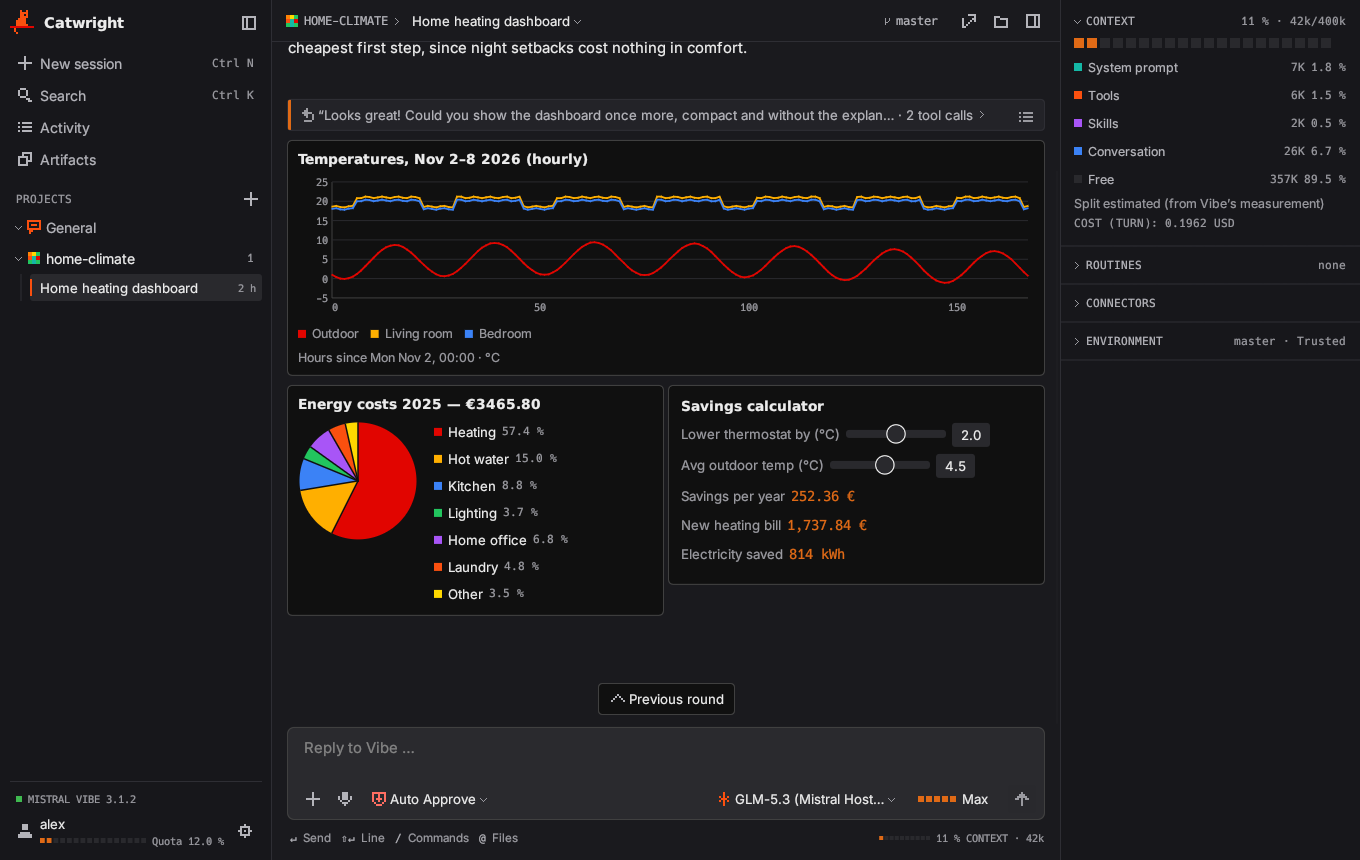
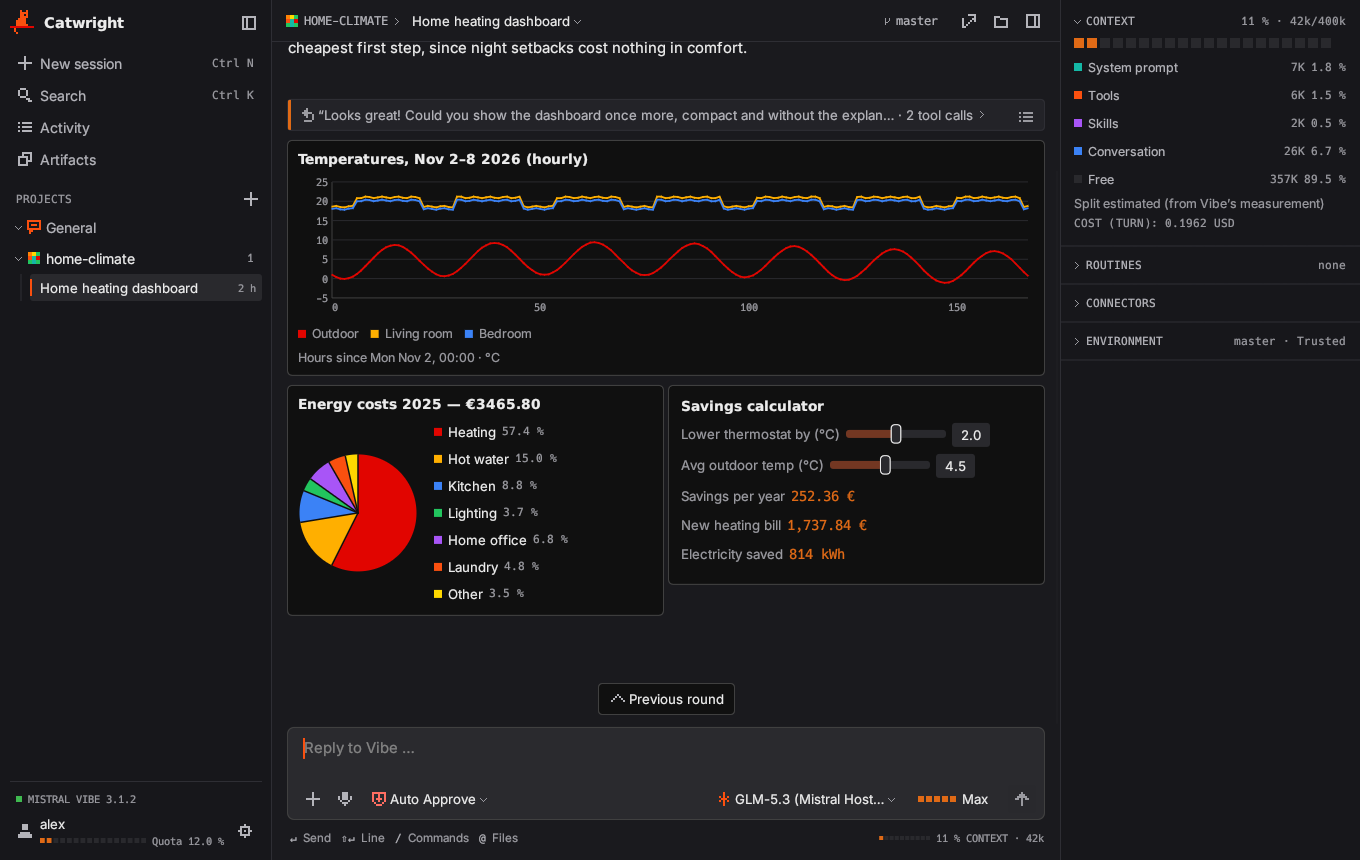
Generative UI: aligned bar charts, centred pie, pixel sliders
- Bar chart: labels in one column so every bar starts at the same x (each
  bar began right after its label), values through tick_label (no float
  noise) in their own column, bars in ORANGE_DIM, never wider than the
  card. A too wide bar chart had widened the following columns, too.
- Pie: painted after the legend and centred on a taller legend.
- Button: keeps its own width inside columns (egui lays them out
  justified, which stretched it into a banner).
- Sliders: narrow square handle with trailing fill (theme).
- ui_node_gallery_renders paints every node type and saves ui-gallery.png
  with CATWRIGHT_SHOT_DIR.

Claude-Session: https://claude.ai/code/session_01PuTwbbvQp52dyYtcHPreif

Changed region(s): [[0.2162, 0.4837, 0.3088, 0.6651], [0.6176, 0.4837, 0.6794, 0.5442]]

diff --git a/app/src/render.rs b/app/src/render.rs
@@ -1718,14 +1718,19 @@ pub fn render_ui_node(
                 label.clone()
             };
             let fill = if armed { crate::theme::AMBER } else { ACCENT };
-            if ui
-                .add(
-                    egui::Button::new(RichText::new(text).color(crate::theme::ON_ACCENT))
-                        .fill(fill)
-                        .rounding(egui::Rounding::same(3.0)),
-                )
-                .clicked()
-            {
+            // its own width, also inside columns (egui lays those out
+            // justified, which stretched the button into a banner)
+            let clicked = ui
+                .horizontal(|ui| {
+                    ui.add(
+                        egui::Button::new(RichText::new(text).color(crate::theme::ON_ACCENT))
+                            .fill(fill)
+                            .rounding(egui::Rounding::same(3.0)),
+                    )
+                    .clicked()
+                })
+                .inner;
+            if clicked {
                 if armed {
                     disarm_button(id);
                     ctx.ui_events.push(UiEvent::Button {
@@ -1862,31 +1867,67 @@ pub fn render_ui_node(
                         .map(|b| b.value)
                         .fold(0.0_f64, f64::max)
                         .max(1.0);
-                    let bar_area_w = (ui.available_width() - 140.0).max(40.0);
-                    for b in bars {
-                        ui.horizontal(|ui| {
-                            ui.set_min_width(120.0);
-                            ui.label(RichText::new(&b.label).color(TEXT).size(13.0));
-                            let frac = (b.value / max) as f32;
-                            let h = 14.0;
-                            let rect = egui::Rect::from_min_size(
-                                ui.cursor().min + egui::vec2(0.0, 2.0),
-                                egui::vec2(bar_area_w, h),
-                            );
-                            ui.allocate_rect(rect, egui::Sense::hover());
-                            ui.painter().rect_filled(
-                                rect,
-                                egui::Rounding::same(0.0),
-                                crate::theme::RAISED,
-                            );
-                            let fill = egui::Rect::from_min_size(
-                                rect.min,
-                                egui::vec2((bar_area_w * frac).max(2.0), h),
-                            );
-                            ui.painter()
-                                .rect_filled(fill, egui::Rounding::same(0.0), ACCENT);
-                            ui.label(RichText::new(format!("{}", b.value)).color(DIM).small());
-                        });
+                    // one column for the labels, so every bar starts at the
+                    // same x and the lengths compare; one for the values;
+                    // the bars share what is left and never widen the card
+                    let width = ui.available_width();
+                    let measure = |ui: &egui::Ui, text: &str, font: egui::FontId| {
+                        ui.fonts(|f| f.layout_no_wrap(text.to_string(), font, TEXT))
+                            .size()
+                            .x
+                    };
+                    let values: Vec<String> = bars
+                        .iter()
+                        .map(|b| i18n::decimal(tick_label(b.value)))
+                        .collect();
+                    let label_w = bars
+                        .iter()
+                        .map(|b| measure(ui, &b.label, egui::FontId::proportional(13.0)))
+                        .fold(0.0_f32, f32::max)
+                        .min(width * 0.4)
+                        + 8.0;
+                    let value_w = values
+                        .iter()
+                        .map(|v| measure(ui, v, egui::FontId::monospace(11.5)))
+                        .fold(0.0_f32, f32::max)
+                        .min(width * 0.25)
+                        + 8.0;
+                    let bar_area_w = (width - label_w - value_w).max(24.0);
+                    for (b, value) in bars.iter().zip(&values) {
+                        let (row, _) =
+                            ui.allocate_exact_size(egui::vec2(width, 20.0), egui::Sense::hover());
+                        let painter = ui.painter();
+                        let label = crate::widgets::line_galley(
+                            ui,
+                            &b.label,
+                            egui::FontId::proportional(13.0),
+                            TEXT,
+                            label_w - 8.0,
+                        );
+                        crate::widgets::paint_line(ui, row.left(), row.center().y, label);
+                        let track = egui::Rect::from_min_size(
+                            egui::pos2(row.left() + label_w, row.center().y - 7.0),
+                            egui::vec2(bar_area_w, 14.0),
+                        );
+                        painter.rect_filled(track, egui::Rounding::same(0.0), crate::theme::RAISED);
+                        let frac = (b.value / max).clamp(0.0, 1.0) as f32;
+                        let fill = egui::Rect::from_min_size(
+                            track.min,
+                            egui::vec2((bar_area_w * frac).max(2.0), 14.0),
+                        );
+                        painter.rect_filled(
+                            fill,
+                            egui::Rounding::same(0.0),
+                            crate::theme::ORANGE_DIM,
+                        );
+                        let v = crate::widgets::line_galley(
+                            ui,
+                            value,
+                            egui::FontId::monospace(11.5),
+                            DIM,
+                            value_w - 8.0,
+                        );
+                        crate::widgets::paint_line(ui, track.right() + 8.0, row.center().y, v);
                     }
                 });
             ui.add_space(6.0);
@@ -2374,13 +2415,47 @@ fn render_pie_chart(ui: &mut egui::Ui, title: Option<&str>, slices: &[crate::mod
                 ui.label(RichText::new(tr("No data.")).color(DIM).small());
                 return;
             }
-            ui.horizontal(|ui| {
+            ui.horizontal_top(|ui| {
                 let size = 120.0;
+                // painted after the legend is laid out: next to a taller
+                // legend the pie sits on its middle, not at its top
+                let slot = ui.painter().add(egui::Shape::Noop);
                 let (rect, _resp) =
                     ui.allocate_exact_size(egui::vec2(size, size), egui::Sense::hover());
-                let center = rect.center();
+                ui.add_space(10.0);
+                let legend = ui
+                    .vertical(|ui| {
+                        for (i, s) in slices.iter().enumerate() {
+                            let pct = s.value.max(0.0) / total * 100.0;
+                            ui.horizontal(|ui| {
+                                let (r, _) = ui.allocate_exact_size(
+                                    egui::vec2(8.0, 8.0),
+                                    egui::Sense::hover(),
+                                );
+                                ui.painter().rect_filled(
+                                    r,
+                                    egui::Rounding::same(0.0),
+                                    series_color(i),
+                                );
+                                ui.label(RichText::new(&s.label).color(TEXT).size(13.0));
+                                ui.label(
+                                    RichText::new(i18n::decimal(format!("{pct:.1} %")))
+                                        .color(DIM)
+                                        .monospace()
+                                        .size(11.5),
+                                );
+                            });
+                        }
+                    })
+                    .response
+                    .rect;
+                let center = if legend.height() > size {
+                    egui::pos2(rect.center().x, legend.center().y)
+                } else {
+                    rect.center()
+                };
                 let radius = size / 2.0 - 2.0;
-                let painter = ui.painter();
+                let mut shapes: Vec<egui::Shape> = Vec::new();
                 let fracs: Vec<f32> = slices
                     .iter()
                     .map(|s| (s.value.max(0.0) / total) as f32)
@@ -2411,32 +2486,17 @@ fn render_pie_chart(ui: &mut egui::Ui, title: Option<&str>, slices: &[crate::mod
                     }
                     rims.push(egui::Shape::line(rim, egui::Stroke::new(1.0_f32, color)));
                 }
-                painter.add(fill);
-                painter.extend(rims);
+                shapes.push(egui::Shape::mesh(fill));
+                shapes.extend(rims);
                 // the gaps between slices: straight radial lines, which
                 // meet cleanly in the centre
                 for a in pie_boundaries(&fracs) {
-                    painter.line_segment([center, point(a)], egui::Stroke::new(1.5_f32, CODE_BG));
+                    shapes.push(egui::Shape::line_segment(
+                        [center, point(a)],
+                        egui::Stroke::new(1.5_f32, CODE_BG),
+                    ));
                 }
-                ui.add_space(10.0);
-                ui.vertical(|ui| {
-                    for (i, s) in slices.iter().enumerate() {
-                        let pct = s.value.max(0.0) / total * 100.0;
-                        ui.horizontal(|ui| {
-                            let (r, _) =
-                                ui.allocate_exact_size(egui::vec2(8.0, 8.0), egui::Sense::hover());
-                            ui.painter()
-                                .rect_filled(r, egui::Rounding::same(0.0), series_color(i));
-                            ui.label(RichText::new(&s.label).color(TEXT).size(13.0));
-                            ui.label(
-                                RichText::new(i18n::decimal(format!("{pct:.1} %")))
-                                    .color(DIM)
-                                    .monospace()
-                                    .size(11.5),
-                            );
-                        });
-                    }
-                });
+                ui.painter().set(slot, egui::Shape::Vec(shapes));
             });
         });
 }
@@ -2461,6 +2521,53 @@ mod tests {
                     super::render_blocks(ui, &blocks, 0, &mut rctx);
                 });
             });
+        }
+    }
+
+    /// Every ui node type through the real renderer, as one picture:
+    /// paints without panicking and, with CATWRIGHT_SHOT_DIR set, saves
+    /// `ui-gallery.png` to look at (not committed).
+    #[test]
+    fn ui_node_gallery_renders() {
+        let msg = concat!(
+            "```ui\n",
+            r#"[{"type":"heading","level":2,"text":"Gallery"},"#,
+            r#"{"type":"columns","children":["#,
+            r#"{"type":"bar_chart","title":"Revenue by quarter","bars":[{"label":"Q1","value":12.5},{"label":"Second quarter","value":18},{"label":"Q3","value":0.30000000000000004},{"label":"Q4 (forecast)","value":9}]},"#,
+            r#"{"type":"pie_chart","title":"Energy costs","slices":[{"label":"Heating","value":57.4},{"label":"Hot water","value":15},{"label":"Kitchen","value":8.8},{"label":"Lighting","value":3.7},{"label":"Home office","value":6.8},{"label":"Laundry","value":4.8},{"label":"Other","value":3.5}]}]},"#,
+            r#"{"type":"columns","children":["#,
+            r#"{"type":"card","title":"Calculator","children":["#,
+            r#"{"type":"slider","name":"a","label":"Amount","min":0,"max":100,"step":1,"value":40},"#,
+            r#"{"type":"number","name":"y","label":"Years","value":10},"#,
+            r#"{"type":"select","name":"k","label":"Kind","options":["1","2"],"value":"1"},"#,
+            r#"{"type":"toggle","name":"m","label":"Monthly","value":true},"#,
+            r#"{"type":"computed","label":"Result","expr":"a*y","decimals":0,"unit":"€"}]},"#,
+            r#"{"type":"card","title":"Status","children":["#,
+            r#"{"type":"progress","label":"Migration","value":0.42},"#,
+            r#"{"type":"checklist","items":[{"text":"Write tests","done":true},{"text":"Update docs"}]},"#,
+            r#"{"type":"kv","rows":[["Region","eu-central"],["Latency","12 ms"]]},"#,
+            r#"{"type":"button","label":"Show details","action":"details"}]}]},"#,
+            r#"{"type":"pie_chart","title":"Two slices","slices":[{"label":"A","value":3},{"label":"B","value":1}]}]"#,
+            "\n```\n"
+        );
+        let blocks = crate::markdown::parse(msg);
+        let mut events = Vec::new();
+        let mut forms = std::collections::HashMap::new();
+        let img = crate::softrender::render_ui([900, 1000], 3, |ctx| {
+            egui::CentralPanel::default()
+                .frame(
+                    egui::Frame::none()
+                        .fill(crate::theme::BG)
+                        .inner_margin(16.0),
+                )
+                .show(ctx, |ui| {
+                    let mut rctx = super::RenderCtx::new(&mut events, &mut forms, "s1");
+                    super::render_blocks(ui, &blocks, 0, &mut rctx);
+                });
+        });
+        if let Ok(out) = std::env::var("CATWRIGHT_SHOT_DIR") {
+            img.save(std::path::Path::new(&out).join("ui-gallery.png"))
+                .unwrap();
         }
     }
 

diff --git a/app/src/theme.rs b/app/src/theme.rs
@@ -140,6 +140,11 @@ pub fn apply(ctx: &egui::Context) {
     visuals.selection.stroke = Stroke::new(1.0_f32, TEXT);
     visuals.hyperlink_color = AMBER;
     visuals.text_cursor.stroke = Stroke::new(2.0_f32, ORANGE);
+    // sliders in the pixel style: a narrow square-cornered handle instead of
+    // egui's round knob, and the stretch left of it filled (SELECTION), so
+    // the value reads at a glance
+    visuals.handle_shape = egui::style::HandleShape::Rect { aspect_ratio: 0.5 };
+    visuals.slider_trailing_fill = true;
     // Body text colour via the widget fg strokes, not override_text_color:
     // the override would also brighten hint texts (placeholders).
     visuals.widgets.noninteractive.fg_stroke = Stroke::new(1.0_f32, TEXT);

diff --git a/docs/design.md b/docs/design.md
@@ -161,7 +161,13 @@ unreadable), body 14, conversation 14.5, mono labels 10.5–12.5. Nothing below
   the workspace of the new session.
 - **Charts** (generative UI): round axis ticks (1, 2 or 5 × 10ⁿ), point marks
   only while points stand at least 8 pt apart, one title style for cards and
-  charts (TEXT, bold); computed numbers use `ORANGE_DIM`.
+  charts (TEXT, bold); computed numbers use `ORANGE_DIM`. Bar charts keep
+  their labels in one column so all bars start at the same x, bars in
+  `ORANGE_DIM`, values without float noise. A pie sits on the middle of a
+  taller legend. The agent picks no colours: series and slices take
+  `theme::CHART_SERIES` by position. Sliders have a narrow square handle
+  with the stretch left of it filled; a ui button keeps its own width,
+  also inside columns.
 - **Command palette** (Strg K): sessions, projects, actions, slash commands.
 - **Transcript detail** (Settings → General): the four levels as cards in a
   row (two rows when narrow), each with a check square, its name, what it

diff --git a/CHANGELOG.md b/CHANGELOG.md
@@ -69,6 +69,11 @@ tag (`## v0.2.0`) as that release's description.
 - Settings → General shows the transcript detail levels as four cards that
   say what each level shows while Vibe works, with a small picture of how
   much is open, instead of a list of four names.
+- Answers with charts and calculators: the bars of a bar chart start at
+  the same place (before, each bar began right after its label), its
+  values no longer show float noise or run out of the card, a pie sits on
+  the middle of its legend, sliders have a square handle, and a button
+  inside columns keeps its size instead of stretching across.
 - Better contrast: Primary buttons and the send button use dark text on
   orange (5.6:1 instead of 3.4:1), tertiary text and the orange numbers are
   a little lighter (now at least 4.5:1).
